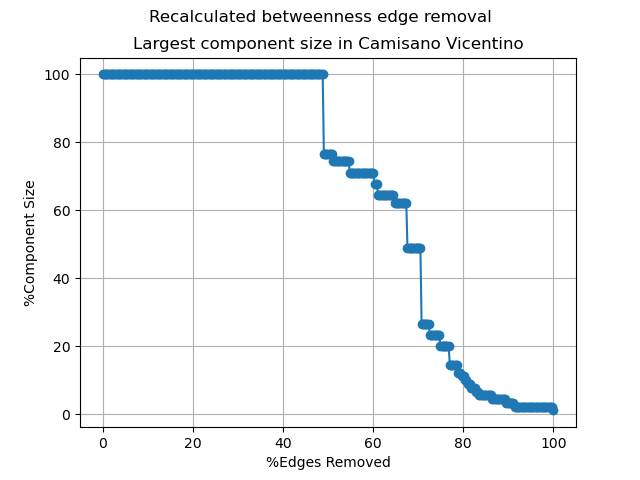
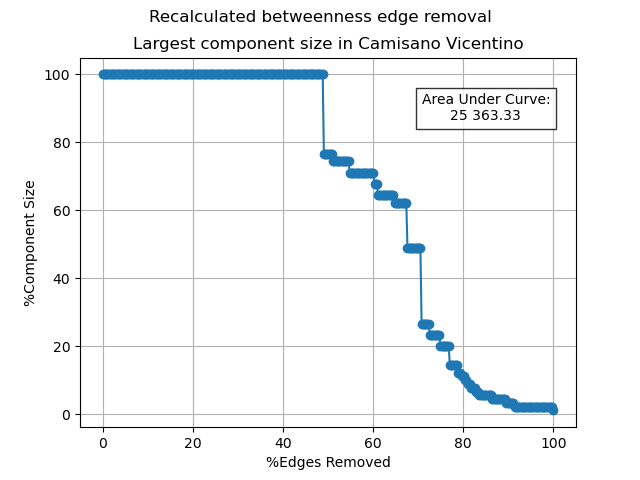
add area under curve

Changed region(s): [[0.625, 0.1562, 0.875, 0.2812]]

diff --git a/CSV Data Files/generate_graphs.py b/CSV Data Files/generate_graphs.py
@@ -13,6 +13,10 @@ def size_of_largest_component_graph(df, removal_target, removal_strategy, locali
     removed = removed.apply(lambda x: 100*x / removed[len(removed)-1])
     size = size.apply(lambda x: 100*x / size[0])
 
+    auc = 0
+    for i in size:
+        auc += i
+
     plt.figure()
     plt.plot(removed, size, marker='o', linestyle='-')
 
@@ -22,6 +26,14 @@ def size_of_largest_component_graph(df, removal_target, removal_strategy, locali
     plt.title(f'Largest component size in {locality}')
     plt.suptitle(f'{removal_strategy} {removal_target} removal'.capitalize())
     plt.grid(True)
+
+    plt.text(
+        85, 90,                                # x, y position (in data coordinates)
+        f"Area Under Curve:\n{auc:,.02f}".replace(","," "),        # text
+        fontsize=10,
+        ha="center",va="center",
+        bbox=dict(facecolor='white', alpha=0.8, edgecolor='black')  # text box style
+    )
 
     plt.savefig(f"{images_folder}/size_of_largest_component_{shortform}.png")
 
@@ -34,7 +46,7 @@ def generate_graphs(df, removal_target, removal_strategy, locality):
     shortfrom = targ+strat+"_"+locality
 
     # generate graphs # TODO uncomment these functions, for now commented so identical graphs aren't regenerated
-    # size_of_largest_component_graph(df, removal_target, removal_strategy, locality, shortfrom)
+    size_of_largest_component_graph(df, removal_target, removal_strategy, locality, shortfrom)
 
 for filename in listdir(metrics_folder):
     # take information from file name assumes format <target>_removal_<strategy>_<locality>.csv
